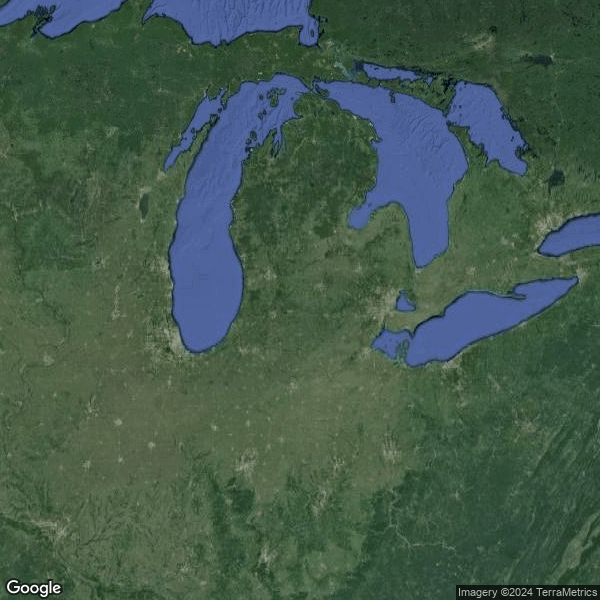
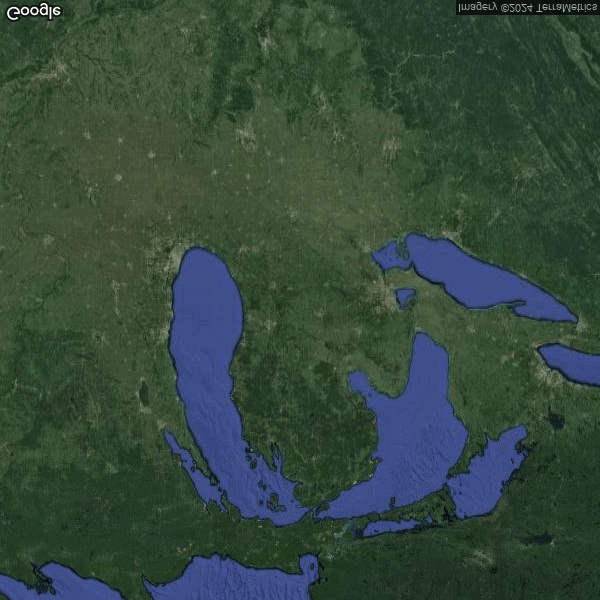
add backgroundChoice option

diff --git a/generateGraphs.py b/generateGraphs.py
@@ -5,12 +5,14 @@ import datetime
 import argparse
 import os
 
-# RHODE_ISLAND_MAP = "subsetFlipped.png"
-# RHODE_ISLAND_AXIS = [-71.905117442267496, -71.0339945492675, 42.200717972845119, 41.028319358056874]
-# NORTH_ATLANTIC_MAP = "NorthAtlanticBasin3.png"
-# NORTH_ATLANTIC_AXIS = [-76.59179620444773, -63.41595750651321, 46.70943547053439, 36.92061410517965]
+RHODE_ISLAND_MAP = "subsetFlipped.png"
+RHODE_ISLAND_AXIS = [-71.905117442267496, -71.0339945492675, 42.200717972845119, 41.028319358056874]
+NORTH_ATLANTIC_MAP = "NorthAtlanticBasin3.png"
+NORTH_ATLANTIC_AXIS = [-76.59179620444773, -63.41595750651321, 46.70943547053439, 36.92061410517965]
 AMERICA_MAP = "America.png"
 AMERICA_AXIS = [-152.73436963558197, -47.327660052105784, 68.95333199817976, -8.92452857958399]
+MIDWEST_MAP = "Midwest.png"
+MIDWEST_AXIS = [-91.59179620444776, -78.41595750651324, 47.17062597464635, 37.45872529389382]
 
 def main():
     p = argparse.ArgumentParser(description="Make a request to generate graphs")
@@ -57,6 +59,8 @@ def main():
     p.add_argument(
         "--rainExists", type=bool, help="Graph adcirc wave data"
     )
+    p.add_argument(
+        "--backgroundChoice", type=str, help="Options: RHODE_ISLAND, NORTH_ATLANTIC, AMERICA, MIDWEST")
     args = p.parse_args()
     args.epsg = 4326
     print("Generating Wind Graphs!")
@@ -73,7 +77,12 @@ def main():
     dataToGraph = {}  
     print("Loading NetCDF file!")
     STATIONS_FILE = args.stations
-
+#     Default to Rhode Island Map
+    if(not args.backgroundChoice):
+        backgroundChoice = "RHODE_ISLAND"
+    else:
+        backgroundChoice = args.backgroundChoice
+        
     print("args.adcircExists", args.adcircExists)
     if(args.adcircExists):
         ADCIRC_WIND_FILE = args.wind
@@ -84,13 +93,13 @@ def main():
     if(args.gfsExists):
         GFS_WIND_FILE = args.wind
         GFS_WIND_DATA_FILE = wind_temp_directory + "gfs_wind_data_file" + ".json"
-#         (windStartDateObject, windEndDateObject) = GFSWindReader(GFS_WIND_FILE=GFS_WIND_FILE, STATIONS_FILE=STATIONS_FILE, GFS_WIND_DATA_FILE=GFS_WIND_DATA_FILE).generateWindDataForStations()
+        (windStartDateObject, windEndDateObject) = GFSWindReader(GFS_WIND_FILE=GFS_WIND_FILE, STATIONS_FILE=STATIONS_FILE, GFS_WIND_DATA_FILE=GFS_WIND_DATA_FILE).generateWindDataForStations()
         dataToGraph["GFS"] = GFS_WIND_DATA_FILE
     print("args.rainExists", args.rainExists)
     if(args.rainExists):
         GFS_RAIN_FILE = args.rain
         GFS_RAIN_DATA_FILE = wind_temp_directory + "gfs_rain_data_file" + ".json"
-#         (rainStartDateObject, rainEndDateObject) = GFSRainReader(GFS_RAIN_FILE=GFS_RAIN_FILE, STATIONS_FILE=STATIONS_FILE, GFS_RAIN_DATA_FILE=GFS_RAIN_DATA_FILE).generateRainDataForStations()
+        (rainStartDateObject, rainEndDateObject) = GFSRainReader(GFS_RAIN_FILE=GFS_RAIN_FILE, STATIONS_FILE=STATIONS_FILE, GFS_RAIN_DATA_FILE=GFS_RAIN_DATA_FILE).generateRainDataForStations()
         dataToGraph["RAIN"] = GFS_RAIN_DATA_FILE
     print("args.postExists", args.postExists)
     if(args.postExists):
@@ -146,25 +155,27 @@ def main():
         dataToGraph["MWP"] = WAVE_MWP_DATA_FILE
         dataToGraph["PWP"] = WAVE_PWP_DATA_FILE
         dataToGraph["RAD"] = WAVE_RAD_DATA_FILE
- 
-    print("Parsed start and end date from netCDF, ", startDateObject, endDateObject)
+        
+    backgroundMap = None
+    backgroundAxis = None
+    if(backgroundChoice == "RHODE_ISLAND"):
+        backgroundMap = RHODE_ISLAND_MAP
+        backgroundAxis = RHODE_ISLAND_AXIS
+    elif(backgroundChoice == "NORTH_ATLANTIC"):
+        backgroundMap = NORTH_ATLANTIC_MAP
+        backgroundAxis = NORTH_ATLANTIC_AXIS
+    elif(backgroundChoice == "AMERICA"):
+        backgroundMap = AMERICA_MAP
+        backgroundAxis = AMERICA_AXIS
+    elif(backgroundChoice == "MIDWEST"):
+        backgroundMap = MIDWEST_MAP
+        backgroundAxis = MIDWEST_AXIS
+#     print("Parsed start and end date from netCDF, ", startDateObject, endDateObject)
     Grapher(
         dataToGraph=dataToGraph, 
         STATIONS_FILE=STATIONS_FILE, 
-        backgroundMap=RHODE_ISLAND_MAP,
-        backgroundAxis=RHODE_ISLAND_AXIS).generateGraphs()
-        
-#     Grapher(
-#         dataToGraph=dataToGraph, 
-#         STATIONS_FILE=STATIONS_FILE, 
-#         backgroundMap=NORTH_ATLANTIC_MAP,
-#         backgroundAxis=NORTH_ATLANTIC_AXIS).generateGraphs()
-# 
-#     Grapher(
-#         dataToGraph=dataToGraph, 
-#         STATIONS_FILE=STATIONS_FILE, 
-#         backgroundMap=AMERICA_MAP,
-#         backgroundAxis=AMERICA_AXIS).generateGraphs()
+        backgroundMap=backgroundMap,
+        backgroundAxis=backgroundAxis).generateGraphs()
 
 if __name__ == "__main__":
     main()

diff --git a/Grapher.py b/Grapher.py
@@ -502,7 +502,7 @@ class Grapher:
     #             print(self.endWavePointsLongitudes)
     #             print(self.endWavePointsLatitudes)
     #             print(self.endSWH)
-                plt.imshow(img, extent=self.backgroundAxis, alpha=0.5, zorder=2)
+                plt.imshow(img, extent=self.backgroundAxis, alpha=0.6, zorder=2)
 #                 contourset = ax.tricontourf(self.mapRainPointsLongitudes, self.mapRainPointsLatitudes, self.mapRains[index], level_boundaries, alpha=0.5, vmin=vmin, vmax=vmax)
                 contourset = ax.pcolormesh(self.mapRainPointsLongitudes, self.mapRainPointsLatitudes, self.mapRains[index], shading='gouraud', cmap="Oranges", vmin=vmin, vmax=vmax, zorder=1)
                 plt.axis(plotAxis)

diff --git a/Reader.py b/Reader.py
@@ -834,6 +834,7 @@ class GFSRainReader:
         initializeClosestRainNodes = True
         if(initializeClosestRainNodes):
             thresholdDistance = 20
+#             thresholdDistance = 100
             self.reader.initializeClosestNodes(rainDataset, thresholdDistance)
         interpolateValues = True
         spaceSparseness = 1
@@ -862,6 +863,7 @@ class GFSWindReader:
         initializeClosestWindNodes = True
         if(initializeClosestWindNodes):
             thresholdDistance = 20
+#             thresholdDistance = 100
 #             Use higher threshold distance if working with 306 data?
 #             thresholdDistance = 800
             self.reader.initializeClosestNodes(windDataset, thresholdDistance)
